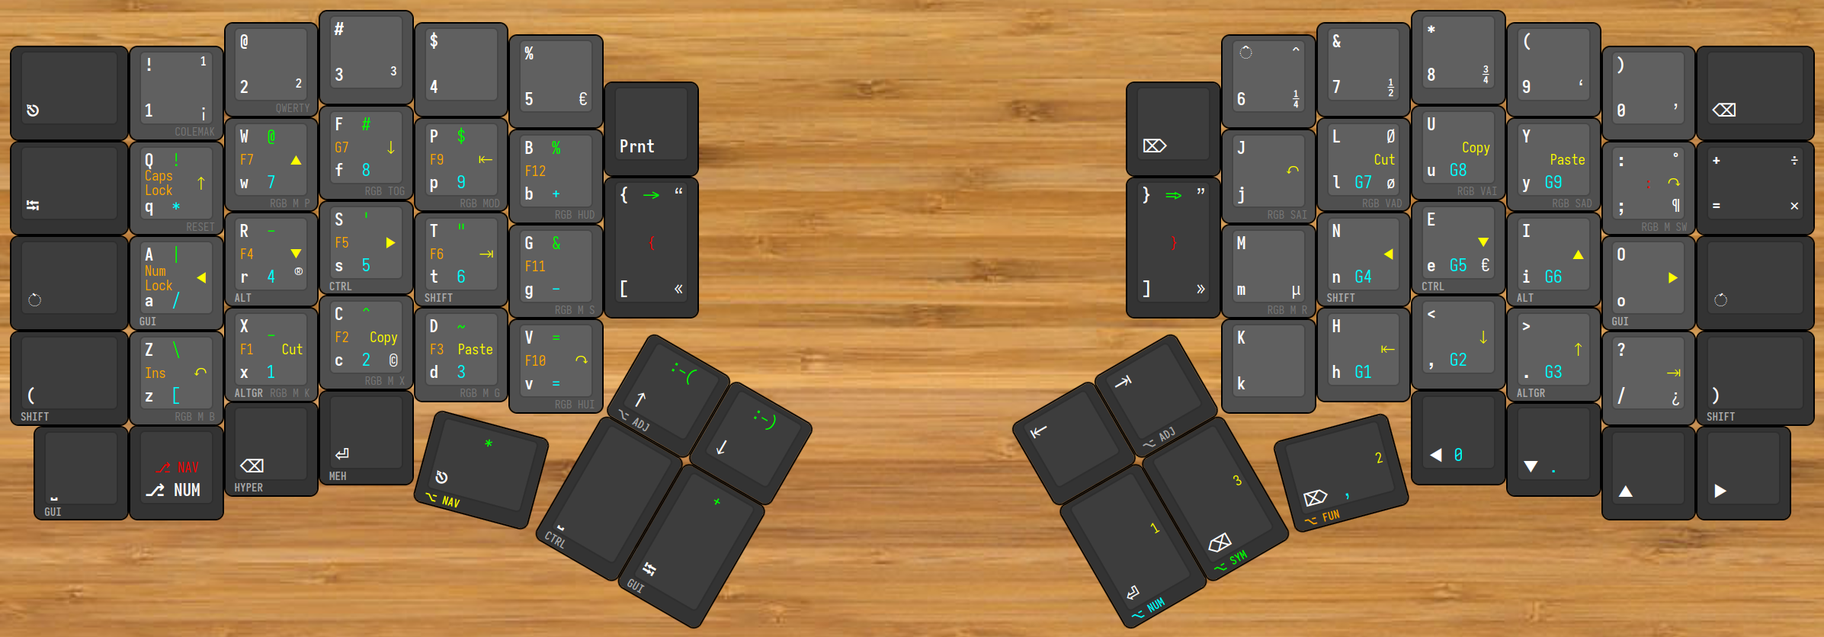
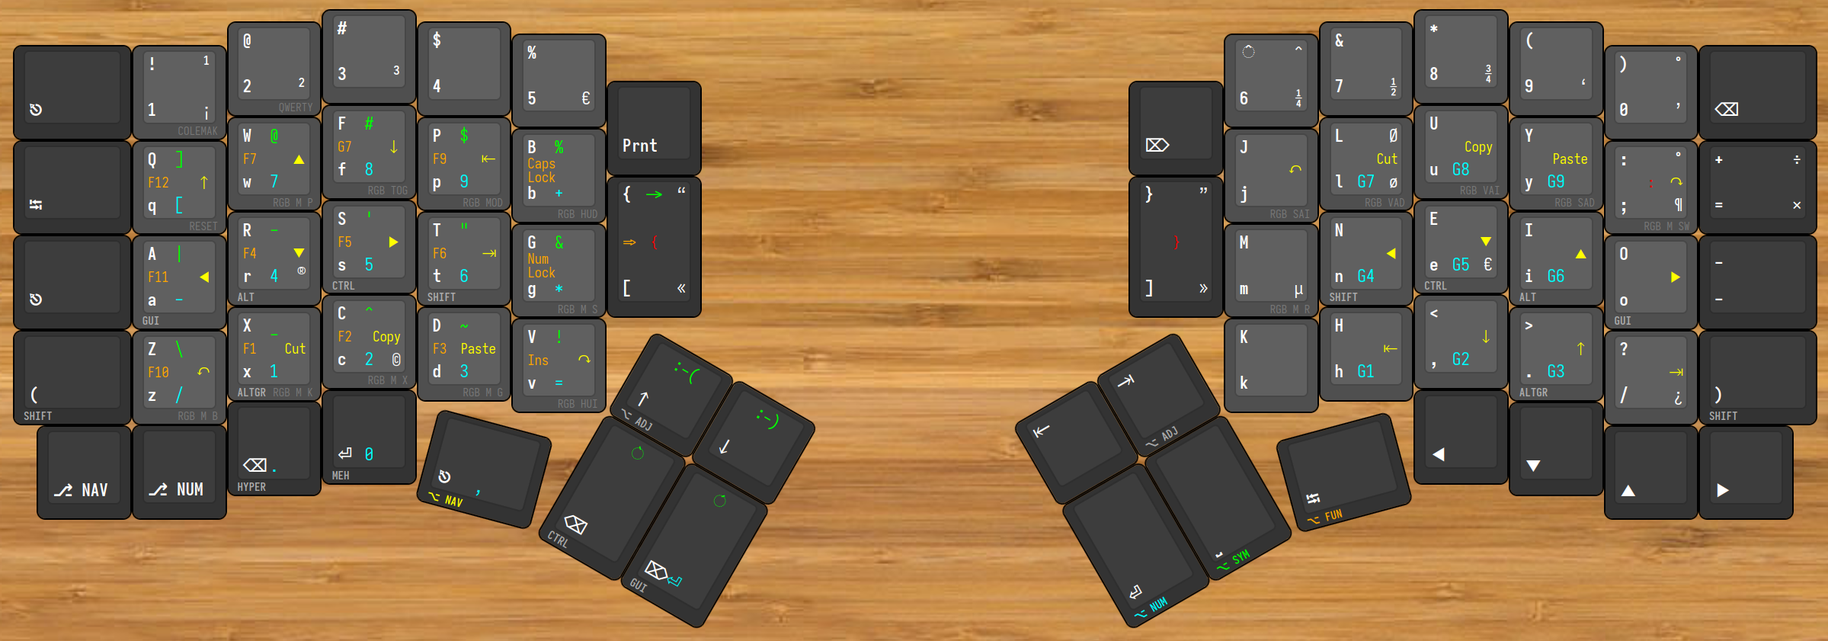
Major update
- Moved numbers and function keys to the right side to use it when right hand is on the mouse.
- Removed unused mouse layer.
- Reorganized some symbols.
- Splitted navigation and symbols in two layers.
- Merged numbers and AwesomeWM layers into one.

diff --git a/keymap.c b/keymap.c
@@ -7,7 +7,6 @@ enum{
   _NAVI, // Navigation
   _NUMB, // Numbers
   _FUNC, // Functions keys
-  _AWES, // AwesomeWM
   _MOUS, // Mouse
   _ADJUST // Adjust
 };
@@ -47,7 +46,9 @@ enum tap_dance_codes {
 #define KC_CT_S LCTL_T(KC_S)          // R / Left Ctrl
 #define KC_AL_R LALT_T(KC_R)          // S / Left Alt
 #define KC_GU_O RGUI_T(KC_O)          // O / Right Gui
+#define KC_AR_X RALT_T(KC_X)          // X / Right Alt
 #define KC_AL_I LALT_T(KC_I)          // E / Left Alt (left alt because used as Emacs M- )
+#define KC_AR_DO RALT_T(KC_DOT)       // . / Right Alt
 #define KC_CT_E RCTL_T(KC_E)          // I / Right Ctrl
 #define KC_RS_N RSFT_T(KC_N)          // N / Right Shift
 #define KC_LS_T LSFT_T(KC_T)          // T / Left Shift
@@ -58,13 +59,25 @@ enum tap_dance_codes {
 #define KC_AEQL LALT_T(KC_EQL)        // Equals / Left Alt
 #define KC_CMIN RCTL_T(KC_MINUS)      // Minus / Right Ctrl
 #define KC_NUES LT(_NUMB, KC_ESC)     // Esc / _numbers
-#define KC_CBSP LCTL_T(KC_BSPC)       // Backspace / Left Ctrl
+#define KC_CBSP LCTL_T(KC_BSPC)        // Backspace / Left Ctrl
 #define KC_SYSP LT(_SYMB, KC_SPC)     // Space / _symbols
-#define KC_AWEN LT(_AWES, KC_ENT)     // Enter / AwesomeWM
+/* #define KC_AWEN LT(_AWES, KC_ENT)     // Enter / AwesomeWM */
 #define KC_FUTA LT(_FUNC, KC_TAB)     // Tab / _functions
 #define KC_RAEN RALT_T(KC_ENT)        // Enter / Right Alt
+
+#define KC_GUDE RGUI_T(KC_DEL)        // Delete / Right Gui
+#define KC_SYBS LT(_SYMB, KC_BSPC)    // Backspace / _symbols
+#define KC_FUDE LT(_FUNC, KC_DEL)     // Delete / _functions
+#define KC_NUEN LT(_NUMB, KC_ENT)     // Enter / _numbers
+#define KC_NAES LT(_NAVI, KC_ESC)     // Esc / _navi
+
+#define KC_HYBS HYPR_T(KC_BSPC)        // Backspace / Hyper
+#define KC_MEEN MEH_T(KC_ENT)          // Enter / Meh
+
 // - Toggle layers:
 #define TG_NUM TG(_NUMB)
+#define TG_NAV TG(_NAVI)
+
 // - Tap dance keys:
 #define TD_DGUM TD(DANCE_1)
 #define TD_SCLN TD(DANCE_2)
@@ -171,7 +184,7 @@ uint16_t get_tapping_term(uint16_t keycode, keyrecord_t *record) {
     return TAPPING_TERM - 50;
 
   // Left thumb for delete/gui/mouse combo
-  case TD_DGUM:
+  case KC_GUDE:
     return TAPPING_TERM - 20;
 
   // All other keys
@@ -188,77 +201,58 @@ const uint16_t PROGMEM keymaps[][MATRIX_ROWS][MATRIX_COLS] = {
     //┌────────┬────────┬────────┬────────┬────────┬────────┐                                           ┌────────┬────────┬────────┬────────┬────────┬────────┐
        KC_ESC  ,KC_1    ,KC_2    ,KC_3    ,KC_4    ,KC_5    ,                                            KC_6    ,KC_7    ,KC_8    ,KC_9    ,KC_0    ,KC_BSPC ,
     //├────────┼────────┼────────┼────────┼────────┼────────┼────────┐                         ┌────────┼────────┼────────┼────────┼────────┼────────┼────────┤
-       KC_ATAB ,KC_Q    ,KC_W    ,KC_F    ,KC_P    ,KC_B    ,KC_PSCR ,                          KC_DEL  ,KC_J    ,KC_L    ,KC_U    ,KC_Y    ,TD_SCLN ,KC_AEQL ,
+       KC_TAB  ,KC_Q    ,KC_W    ,KC_F    ,KC_P    ,KC_B    ,KC_PSCR ,                          XXXXXXX ,KC_J    ,KC_L    ,KC_U    ,KC_Y    ,TD_SCLN ,KC_EQL  ,
     //├────────┼────────┼────────┼────────┼────────┼────────┼────────┤                         ├────────┼────────┼────────┼────────┼────────┼────────┼────────┤
-       KC_CESC ,KC_GU_A ,KC_AL_R ,KC_CT_S ,KC_LS_T ,KC_G    ,TD_LBRC ,                          TD_RBRC ,KC_M    ,KC_RS_N ,KC_CT_E ,KC_AL_I ,KC_GU_O ,KC_CMIN ,
+       KC_ESC  ,KC_GU_A ,KC_AL_R ,KC_CT_S ,KC_LS_T ,KC_G    ,TD_LBRC ,                          TD_RBRC ,KC_M    ,KC_RS_N ,KC_CT_E ,KC_AL_I ,KC_GU_O ,KC_MINS ,
     //├────────┼────────┼────────┼────────┼────────┼────────┼────────┼────────┐       ┌────────┼────────┼────────┼────────┼────────┼────────┼────────┼────────┤
-       KC_LSPO ,KC_Z    ,KC_X    ,KC_C    ,KC_D    ,KC_V    ,KC_ADPU ,KC_PGDN ,        KC_HOME ,KC_ADEN ,KC_K    ,KC_H    ,KC_COMM ,KC_DOT  ,KC_SLSH ,KC_RSPC ,
+       KC_LSPO ,KC_Z    ,KC_AR_X ,KC_C    ,KC_D    ,KC_V    ,KC_ADPU ,KC_PGDN ,        KC_HOME ,KC_ADEN ,KC_K    ,KC_H    ,KC_COMM ,KC_AR_DO,KC_SLSH ,KC_RSPC ,
     //├────────┼────────┼────────┼────────┼────┬───┴────┬───┼────────┼────────┤       ├────────┼────────┼───┬────┴───┬────┼────────┼────────┼────────┼────────┤
-       KC_GUSP ,KC_HYPR ,TG_NUM  ,KC_RAEN ,     KC_NUES ,    KC_CBSP ,TD_DGUM ,        KC_AWEN ,KC_SYSP ,    KC_FUTA ,     KC_LEFT ,KC_DOWN ,KC_UP   ,KC_RGHT
+       TG_NAV  ,TG_NUM  ,KC_HYBS ,KC_MEEN ,     KC_NAES ,    KC_CBSP ,KC_GUDE ,        KC_NUEN ,KC_SYSP ,    KC_FUTA ,     KC_LEFT ,KC_DOWN ,KC_UP   ,KC_RGHT
     //└────────┴────────┴────────┴────────┘    └────────┘   └────────┴────────┘       └────────┴────────┘   └────────┘    └────────┴────────┴────────┴────────┘
   ),
-
-  /* // Symbols, home row arrows, function keys and macros layer */
-  /* [_SYMB] = LAYOUT( */
-  /*   //┌────────┬────────┬────────┬────────┬────────┬────────┐                                           ┌────────┬────────┬────────┬────────┬────────┬────────┐ */
-  /*      _______ ,_______ ,_______ ,_______ ,_______ ,_______ ,                                            _______ ,_______ ,_______ ,_______ ,_______ ,_______ , */
-  /*   //├────────┼────────┼────────┼────────┼────────┼────────┼────────┐                         ┌────────┼────────┼────────┼────────┼────────┼────────┼────────┤ */
-  /*      _______ ,KC_EXLM ,KC_AT   ,KC_HASH ,KC_DLR  ,KC_PERC ,_______ ,                          _______ ,ASC_CIRC,KC_AMPR ,KC_ASTR ,KC_PLUS ,_______ ,_______ , */
-  /*   //├────────┼────────┼────────┼────────┼────────┼────────┼────────┤                         ├────────┼────────┼────────┼────────┼────────┼────────┼────────┤ */
-  /*      _______ ,KC_PIPE ,KC_PMNS ,ASC_SQT ,ASC_DQT ,KC_GRV  ,ASC_SAR ,                          ASC_DAR ,KC_QUOT ,KC_LEFT ,KC_DOWN ,KC_UP   ,KC_RGHT ,_______ , */
-  /*   //├────────┼────────┼────────┼────────┼────────┼────────┼────────┼────────┐       ┌────────┼────────┼────────┼────────┼────────┼────────┼────────┼────────┤ */
-  /*      _______ ,KC_BSLS ,KC_UNDS ,KC_COLN ,ASC_TILD,KC_EQL  ,ASC_SAD ,ASC_HAP ,        _______ ,_______ ,ASC_BKT ,KC_HOME ,KC_PGDN ,KC_PGUP ,KC_END  ,_______ , */
-  /*   //├────────┼────────┼────────┼────────┼────┬───┴────┬───┼────────┼────────┤       ├────────┼────────┼───┬────┴───┬────┼────────┼────────┼────────┼────────┤ */
-  /*      _______ ,_______ ,_______ ,_______ ,     _______ ,    _______ ,_______ ,        _______ ,_______ ,    _______ ,     _______ ,_______ ,_______ ,_______ */
-  /*   //└────────┴────────┴────────┴────────┘    └────────┘   └────────┴────────┘       └────────┴────────┘   └────────┘    └────────┴────────┴────────┴────────┘ */
-  /* ), */
 
   // Symbols, home row arrows, function keys and macros layer
   [_SYMB] = LAYOUT(
     //┌────────┬────────┬────────┬────────┬────────┬────────┐                                           ┌────────┬────────┬────────┬────────┬────────┬────────┐
        _______ ,_______ ,_______ ,_______ ,_______ ,_______ ,                                            _______ ,_______ ,_______ ,_______ ,_______ ,_______ ,
     //├────────┼────────┼────────┼────────┼────────┼────────┼────────┐                         ┌────────┼────────┼────────┼────────┼────────┼────────┼────────┤
-       _______ ,KC_EXLM ,KC_AT   ,KC_HASH ,KC_DLR  ,KC_PERC ,_______ ,                          _______ ,_______ ,_______ ,_______ ,_______ ,_______ ,_______ ,
+       _______ ,KC_RBRC ,KC_AT   ,KC_HASH ,KC_DLR  ,KC_PERC ,_______ ,                          _______ ,_______ ,_______ ,_______ ,_______ ,_______ ,_______ ,
     //├────────┼────────┼────────┼────────┼────────┼────────┼────────┤                         ├────────┼────────┼────────┼────────┼────────┼────────┼────────┤
-       _______ ,KC_PIPE ,KC_PMNS ,ASC_SQT ,ASC_DQT ,KC_GRV  ,ASC_SAR ,                          _______ ,_______ ,_______ ,_______ ,_______ ,_______ ,_______ ,
+       _______ ,KC_PIPE ,KC_PMNS ,ASC_SQT ,ASC_DQT ,KC_AMPR ,ASC_SAR ,                          _______ ,_______ ,_______ ,_______ ,_______ ,_______ ,_______ ,
     //├────────┼────────┼────────┼────────┼────────┼────────┼────────┼────────┐       ┌────────┼────────┼────────┼────────┼────────┼────────┼────────┼────────┤
-       _______ ,KC_BSLS ,KC_UNDS ,KC_COLN ,ASC_TILD,KC_EQL  ,ASC_SAD ,ASC_HAP ,        _______ ,_______ ,_______ ,_______ ,_______ ,_______ ,_______ ,_______ ,
+       _______ ,KC_BSLS ,KC_UNDS ,ASC_CIRC,ASC_TILD,KC_EXLM ,ASC_SAD ,ASC_HAP ,        _______ ,_______ ,_______ ,_______ ,_______ ,_______ ,_______ ,_______ ,
     //├────────┼────────┼────────┼────────┼────┬───┴────┬───┼────────┼────────┤       ├────────┼────────┼───┬────┴───┬────┼────────┼────────┼────────┼────────┤
-       _______ ,_______ ,_______ ,_______ ,     _______ ,    _______ ,_______ ,        _______ ,_______ ,    _______ ,     _______ ,_______ ,_______ ,_______
+       _______ ,_______ ,_______ ,_______ ,     _______ ,    KC_GRV  ,KC_QUOT ,        _______ ,_______ ,    _______ ,     _______ ,_______ ,_______ ,_______
     //└────────┴────────┴────────┴────────┘    └────────┘   └────────┴────────┘       └────────┴────────┘   └────────┘    └────────┴────────┴────────┴────────┘
   ),
 
-  //KC_QUOT
-  // ASC_DAR
-
   // Symbols, home row arrows, function keys and macros layer
-  [_NAV] = LAYOUT(
+  [_NAVI] = LAYOUT(
     //┌────────┬────────┬────────┬────────┬────────┬────────┐                                           ┌────────┬────────┬────────┬────────┬────────┬────────┐
        _______ ,_______ ,_______ ,_______ ,_______ ,_______ ,                                            _______ ,_______ ,_______ ,_______ ,_______ ,_______ ,
     //├────────┼────────┼────────┼────────┼────────┼────────┼────────┐                         ┌────────┼────────┼────────┼────────┼────────┼────────┼────────┤
-       _______ ,_______ ,_______ ,_______ ,_______ ,_______ ,_______ ,                          _______ ,U_RDO   ,U_PST   ,U_CPY   ,U_CUT   ,U_UND   ,_______ ,
+       _______ ,KC_PGUP ,KC_UP   ,KC_PGDN ,KC_HOME ,_______ ,_______ ,                          _______ ,U_UND   ,U_CUT   ,U_CPY   ,U_PST   ,U_RDO   ,_______ ,
     //├────────┼────────┼────────┼────────┼────────┼────────┼────────┤                         ├────────┼────────┼────────┼────────┼────────┼────────┼────────┤
-       _______ ,_______ ,_______ ,_______ ,_______ ,_______ ,_______ ,                          _______ ,_______ ,KC_LEFT ,KC_DOWN ,KC_UP   ,KC_RGHT ,_______ ,
+       _______ ,KC_LEFT ,KC_DOWN ,KC_RGHT ,KC_END  ,_______ ,_______ ,                          _______ ,_______ ,KC_LEFT ,KC_DOWN ,KC_UP   ,KC_RGHT ,_______ ,
     //├────────┼────────┼────────┼────────┼────────┼────────┼────────┼────────┐       ┌────────┼────────┼────────┼────────┼────────┼────────┼────────┼────────┤
-       _______ ,_______ ,_______ ,_______ ,_______ ,_______ ,_______ ,_______ ,        _______ ,_______ ,ASC_BKT ,KC_HOME ,KC_PGDN ,KC_PGUP ,KC_END  ,_______ ,
+       _______ ,U_UND   ,U_CUT   ,U_CPY   ,U_PST   ,U_RDO   ,_______ ,_______ ,        _______ ,_______ ,_______ ,KC_HOME ,KC_PGDN ,KC_PGUP ,KC_END  ,_______ ,
     //├────────┼────────┼────────┼────────┼────┬───┴────┬───┼────────┼────────┤       ├────────┼────────┼───┬────┴───┬────┼────────┼────────┼────────┼────────┤
        _______ ,_______ ,_______ ,_______ ,     _______ ,    _______ ,_______ ,        _______ ,_______ ,    _______ ,     _______ ,_______ ,_______ ,_______
     //└────────┴────────┴────────┴────────┘    └────────┘   └────────┴────────┘       └────────┴────────┘   └────────┘    └────────┴────────┴────────┴────────┘
   ),
-
 
   // Numeric keypad layer
   [_NUMB] = LAYOUT(
     //┌────────┬────────┬────────┬────────┬────────┬────────┐                                           ┌────────┬────────┬────────┬────────┬────────┬────────┐
        _______ ,_______ ,_______ ,_______ ,_______ ,_______ ,                                            _______ ,_______ ,_______ ,_______ ,_______ ,_______ ,
     //├────────┼────────┼────────┼────────┼────────┼────────┼────────┐                         ┌────────┼────────┼────────┼────────┼────────┼────────┼────────┤
-       _______ ,_______ ,KC_UP   ,_______ ,KC_NLCK ,KC_CAPS ,_______ ,                          _______ ,KC_PENT ,KC_KP_7 ,KC_KP_8 ,KC_KP_9 ,KC_PPLS ,KC_PEQL ,
+       _______ ,KC_LBRC ,KC_9    ,KC_8    ,KC_9    ,KC_PPLS ,_______ ,                          _______ ,_______ ,KC_AW7  ,KC_AW8  ,KC_AW9  ,_______ ,_______ ,
     //├────────┼────────┼────────┼────────┼────────┼────────┼────────┤                         ├────────┼────────┼────────┼────────┼────────┼────────┼────────┤
-       _______ ,KC_LEFT ,KC_DOWN ,KC_RIGHT,U_ALL   ,KC_INS  ,_______ ,                          _______ ,KC_COMM ,KC_KP_4 ,KC_KP_5 ,KC_KP_6 ,KC_PAST ,KC_PMNS ,
+       _______ ,KC_PMNS ,KC_4    ,KC_5    ,KC_6    ,KC_PAST ,_______ ,                          _______ ,_______ ,KC_AW4  ,KC_AW5  ,KC_AW6  ,_______ ,_______ ,
     //├────────┼────────┼────────┼────────┼────────┼────────┼────────┼────────┐       ┌────────┼────────┼────────┼────────┼────────┼────────┼────────┼────────┤
-       _______ ,U_UND   ,U_CUT   ,U_CPY   ,U_PST   ,U_RDO   ,_______ ,_______ ,        _______ ,_______ ,S(KC_9) ,KC_KP_1 ,KC_KP_2 ,KC_KP_3 ,KC_PSLS ,S(KC_0) ,
+       _______ ,KC_PSLS ,KC_1    ,KC_2    ,KC_3    ,KC_EQL  ,_______ ,_______ ,        _______ ,_______ ,_______ ,KC_AW1  ,KC_AW2  ,KC_AW3  ,_______ ,_______ ,
     //├────────┼────────┼────────┼────────┼────┬───┴────┬───┼────────┼────────┤       ├────────┼────────┼───┬────┴───┬────┼────────┼────────┼────────┼────────┤
-       _______ ,_______ ,_______ ,_______ ,     _______ ,    _______ ,_______ ,        KC_PENT ,KC_KP_0 ,    KC_PDOT ,     KC_KP_0 ,KC_PDOT ,XXXXXXX ,XXXXXXX
+       _______ ,_______ ,KC_DOT  ,KC_0    ,     KC_COMM ,    _______ ,KC_ENT  ,        _______ ,_______ ,    _______ ,     _______ ,_______ ,_______ ,_______
     //└────────┴────────┴────────┴────────┘    └────────┘   └────────┴────────┘       └────────┴────────┘   └────────┘    └────────┴────────┴────────┴────────┘
   ),
 
@@ -267,30 +261,16 @@ const uint16_t PROGMEM keymaps[][MATRIX_ROWS][MATRIX_COLS] = {
     //┌────────┬────────┬────────┬────────┬────────┬────────┐                                           ┌────────┬────────┬────────┬────────┬────────┬────────┐
        _______ ,_______ ,_______ ,_______ ,_______ ,_______ ,                                            _______ ,_______ ,_______ ,_______ ,_______ ,_______ ,
     //├────────┼────────┼────────┼────────┼────────┼────────┼────────┐                         ┌────────┼────────┼────────┼────────┼────────┼────────┼────────┤
-       _______ ,_______ ,KC_UP   ,_______ ,KC_NLCK ,KC_CAPS ,_______ ,                          _______ ,XXXXXXX ,KC_F7   ,KC_F8   ,KC_F9   ,KC_F12  ,_______ ,
+       _______ ,KC_F12  ,KC_F7   ,KC_F8   ,KC_F9   ,KC_CAPS ,_______ ,                          _______ ,_______ ,KC_F7   ,KC_F8   ,KC_F9   ,KC_F12  ,_______ ,
     //├────────┼────────┼────────┼────────┼────────┼────────┼────────┤                         ├────────┼────────┼────────┼────────┼────────┼────────┼────────┤
-       _______ ,KC_LEFT ,KC_DOWN ,KC_RIGHT,U_ALL   ,KC_INS  ,_______ ,                          _______ ,XXXXXXX ,KC_F4   ,KC_F5   ,KC_F6   ,KC_F11  ,_______ ,
+       _______ ,KC_F11  ,KC_F4   ,KC_F5   ,KC_F6   ,KC_NLCK ,ASC_DAR ,                          _______ ,_______ ,KC_F4   ,KC_F5   ,KC_F6   ,KC_F11  ,_______ ,
     //├────────┼────────┼────────┼────────┼────────┼────────┼────────┼────────┐       ┌────────┼────────┼────────┼────────┼────────┼────────┼────────┼────────┤
-       _______ ,U_UND   ,U_CUT   ,U_CPY   ,U_PST   ,U_RDO   ,_______ ,_______ ,        _______ ,_______ ,XXXXXXX ,KC_F1   ,KC_F2   ,KC_F3   ,KC_F10  ,_______ ,
+       _______ ,KC_F10  ,KC_F1   ,KC_F2   ,KC_F3   ,KC_INS  ,_______ ,_______ ,        _______ ,_______ ,_______ ,KC_F1   ,KC_F2   ,KC_F3   ,KC_F10  ,_______ ,
     //├────────┼────────┼────────┼────────┼────┬───┴────┬───┼────────┼────────┤       ├────────┼────────┼───┬────┴───┬────┼────────┼────────┼────────┼────────┤
        _______ ,_______ ,_______ ,_______ ,     _______ ,    _______ ,_______ ,        _______ ,_______ ,    _______ ,     _______ ,_______ ,_______ ,_______
     //└────────┴────────┴────────┴────────┘    └────────┘   └────────┴────────┘       └────────┴────────┘   └────────┘    └────────┴────────┴────────┴────────┘
   ),
 
-  // AwesomeWM
-  [_AWES] = LAYOUT(
-    //┌────────┬────────┬────────┬────────┬────────┬────────┐                                           ┌────────┬────────┬────────┬────────┬────────┬────────┐
-       _______ ,_______ ,_______ ,_______ ,_______ ,_______ ,                                            _______ ,_______ ,_______ ,_______ ,_______ ,_______ ,
-    //├────────┼────────┼────────┼────────┼────────┼────────┼────────┐                         ┌────────┼────────┼────────┼────────┼────────┼────────┼────────┤
-       _______ ,_______ ,KC_UP   ,_______ ,KC_NLCK ,KC_CAPS ,_______ ,                          _______ ,_______ ,KC_AW7  ,KC_AW8  ,KC_AW9  ,_______ ,_______ ,
-    //├────────┼────────┼────────┼────────┼────────┼────────┼────────┤                         ├────────┼────────┼────────┼────────┼────────┼────────┼────────┤
-       _______ ,KC_LEFT ,KC_DOWN ,KC_RIGHT,U_ALL   ,KC_INS  ,_______ ,                          _______ ,_______ ,KC_AW4  ,KC_AW5  ,KC_AW6  ,_______ ,_______ ,
-    //├────────┼────────┼────────┼────────┼────────┼────────┼────────┼────────┐       ┌────────┼────────┼────────┼────────┼────────┼────────┼────────┼────────┤
-       _______ ,U_UND   ,U_CUT   ,U_CPY   ,U_PST   ,U_RDO   ,_______ ,_______ ,        _______ ,_______ ,_______ ,KC_AW1  ,KC_AW2  ,KC_AW3  ,_______ ,_______ ,
-    //├────────┼────────┼────────┼────────┼────┬───┴────┬───┼────────┼────────┤       ├────────┼────────┼───┬────┴───┬────┼────────┼────────┼────────┼────────┤
-       _______ ,_______ ,_______ ,_______ ,     _______ ,    _______ ,_______ ,        _______ ,_______ ,    _______ ,     _______ ,_______ ,_______ ,_______
-    //└────────┴────────┴────────┴────────┘    └────────┘   └────────┴────────┘       └────────┴────────┘   └────────┘    └────────┴────────┴────────┴────────┘
-  ),
 
   // Mouse
   [_MOUS] = LAYOUT(
